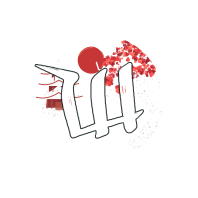
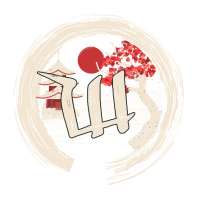
fix(arts-lits): cream Home ink and smaller offset W

diff --git a/src/screens/ArtsLits/living-art/LivingArtIcon.tsx b/src/screens/ArtsLits/living-art/LivingArtIcon.tsx
@@ -50,6 +50,9 @@ function nativeProps(node:SvgNode,ctx:Context):NativeProps{
   for(const [k,v] of Object.entries(a))if(!ignore.has(k)&&!k.startsWith('data-')&&!k.startsWith('aria-'))out[camel(k)]=v;
   if(tag==='mask')out.maskType='luminance';
   if(cls.includes('home-w'))out.fill='currentColor';
+  // Shrink the W and its clearance outline together, about the original glyph center, then move left/down.
+  if(ctx.name==='Home'&&cls.split(/\s+/).includes('v30-logo-scale'))out.transform='translate(-51.2925 13.12) scale(1.017)';
+  
   if(cls==='home-spray'){out.fill='currentColor';out.opacity=.75;}
   if(cls.includes('home-ink-trail'))out.opacity=.56;
   if(cls.includes('v25-logo-clear'))out.stroke=ctx.dark?'#172324':'#fdfcf8';
@@ -96,7 +99,7 @@ function VectorArt({name,dark,reducedMotion,paused}:ArtProps&{name:VectorName}){
   const content=useMemo(()=>!ready||(reducedMotion&&name!=='Explore')?null:tree(name)[2].map((n,i)=>renderNode(n,{name,dark,reduced:reducedMotion,parentClass:'',parentStyle:'',inMask:false,cherries:false},i)),[ready,name,dark,reducedMotion]);
   if(name!=='Explore'&&(!ready||reducedMotion))return <View pointerEvents="none" accessible={false} style={{width:w,height:h,overflow:'visible'}}><Image source={stills[name][dark?'dark':'light']} resizeMode="contain" fadeDuration={0} accessible={false} style={{position:'absolute',left:-pad,top:-pad,width:w+2*pad,height:h+2*pad}}/></View>;
   return <ClockContext.Provider value={reducedMotion?0:clock}><View pointerEvents="none" accessible={false} style={{width:w,height:h,overflow:'visible'}}>
-    <Svg width={w+2*pad} height={h+2*pad} viewBox={expanded} color={name==='Home'?(dark?'#ffffff':'#171612'):(dark?'#f0e9dd':'#222522')} style={{position:'absolute',left:-pad,top:-pad,overflow:'visible'}}>
+    <Svg width={w+2*pad} height={h+2*pad} viewBox={expanded} color={name==='Home'?(dark?'#f2e6d2':'#171612'):(dark?'#f0e9dd':'#222522')} style={{position:'absolute',left:-pad,top:-pad,overflow:'visible'}}>
       {content}
     </Svg>
   </View></ClockContext.Provider>;
